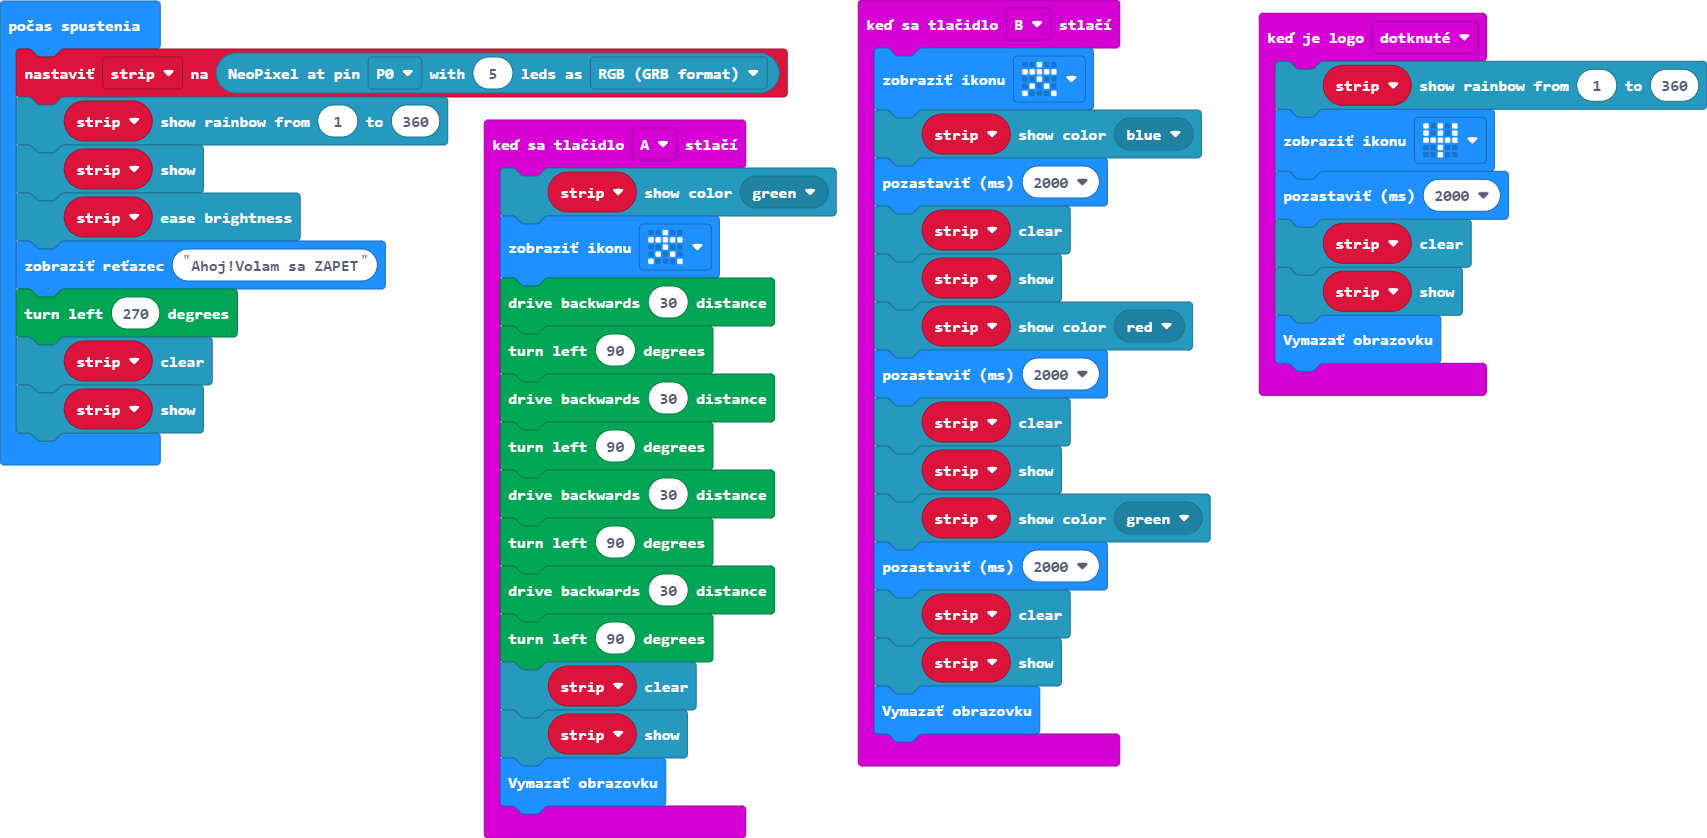
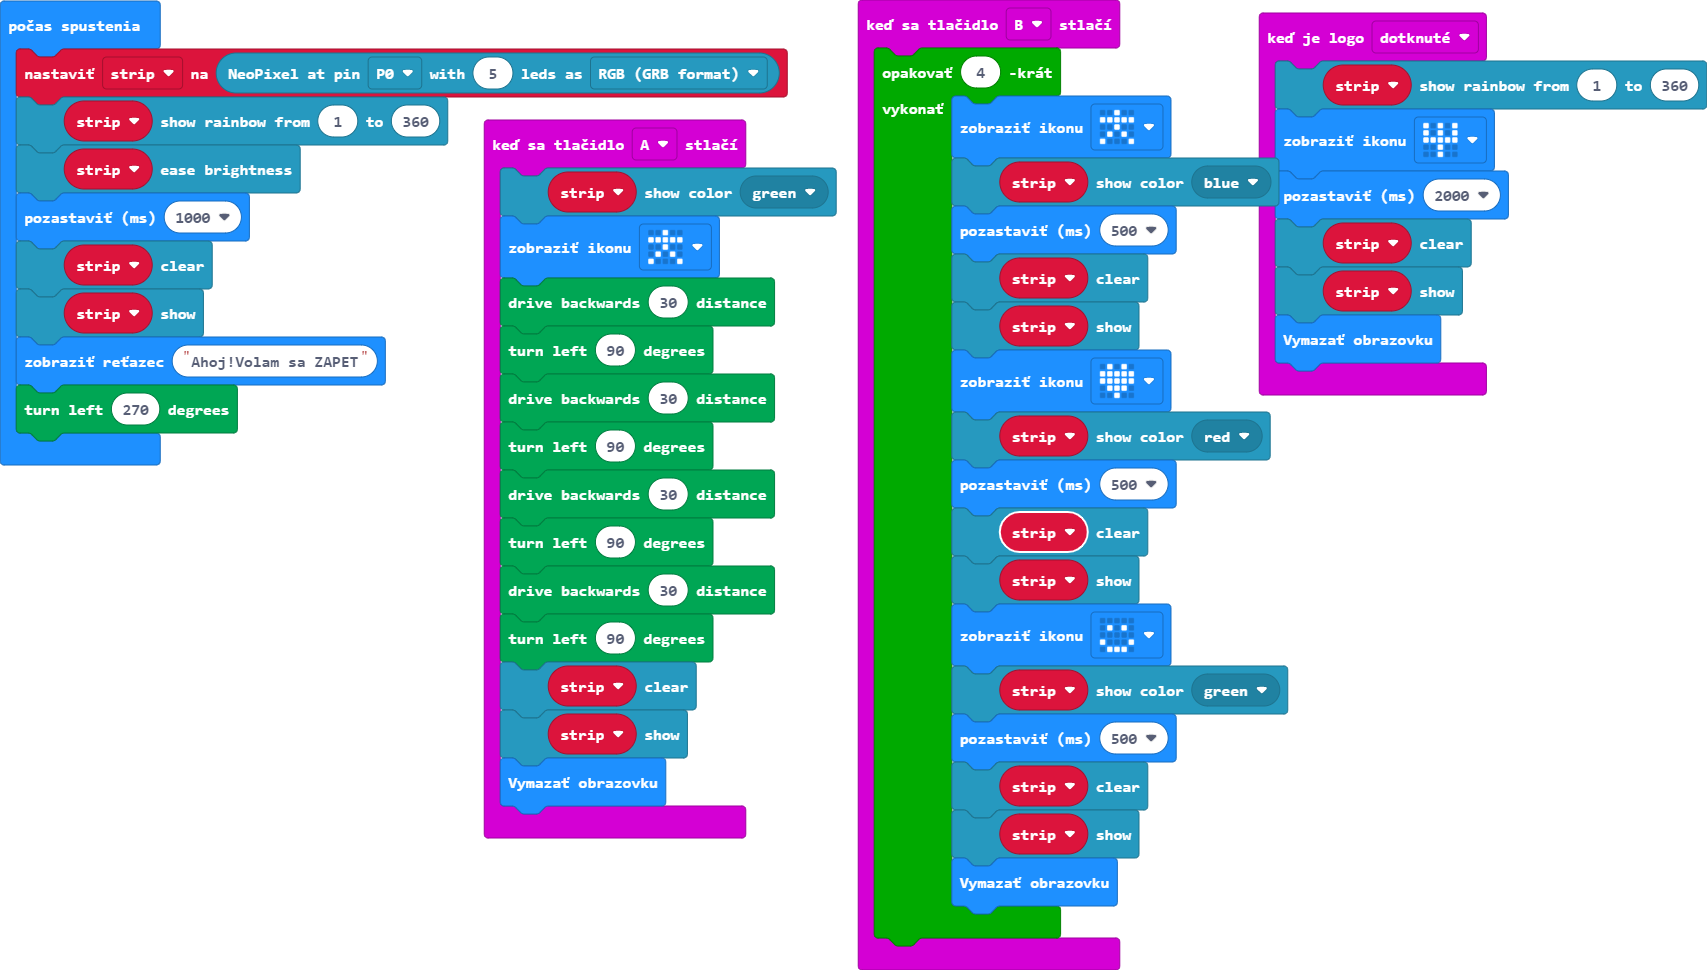
Aktualizovať main.blocks, main.ts

diff --git a/main.ts b/main.ts
@@ -22,27 +22,31 @@ input.onLogoEvent(TouchButtonEvent.Touched, function () {
     basic.clearScreen()
 })
 input.onButtonPressed(Button.B, function () {
-    basic.showIcon(IconNames.StickFigure)
-    strip.showColor(neopixel.colors(NeoPixelColors.Blue))
-    basic.pause(2000)
-    strip.clear()
-    strip.show()
-    strip.showColor(neopixel.colors(NeoPixelColors.Red))
-    basic.pause(2000)
-    strip.clear()
-    strip.show()
-    strip.showColor(neopixel.colors(NeoPixelColors.Green))
-    basic.pause(2000)
-    strip.clear()
-    strip.show()
-    basic.clearScreen()
+    for (let index = 0; index < 4; index++) {
+        basic.showIcon(IconNames.StickFigure)
+        strip.showColor(neopixel.colors(NeoPixelColors.Blue))
+        basic.pause(500)
+        strip.clear()
+        strip.show()
+        basic.showIcon(IconNames.Heart)
+        strip.showColor(neopixel.colors(NeoPixelColors.Red))
+        basic.pause(500)
+        strip.clear()
+        strip.show()
+        basic.showIcon(IconNames.Happy)
+        strip.showColor(neopixel.colors(NeoPixelColors.Green))
+        basic.pause(500)
+        strip.clear()
+        strip.show()
+        basic.clearScreen()
+    }
 })
 let strip: neopixel.Strip = null
 strip = neopixel.create(DigitalPin.P0, 5, NeoPixelMode.RGB)
 strip.showRainbow(1, 360)
-strip.show()
 strip.easeBrightness()
-basic.showString("Ahoj!Volam sa ZAPET")
-kitronik_servo_lite.turnLeft(270)
+basic.pause(1000)
 strip.clear()
 strip.show()
+basic.showString("Ahoj!Volam sa ZAPET")
+kitronik_servo_lite.turnLeft(270)
